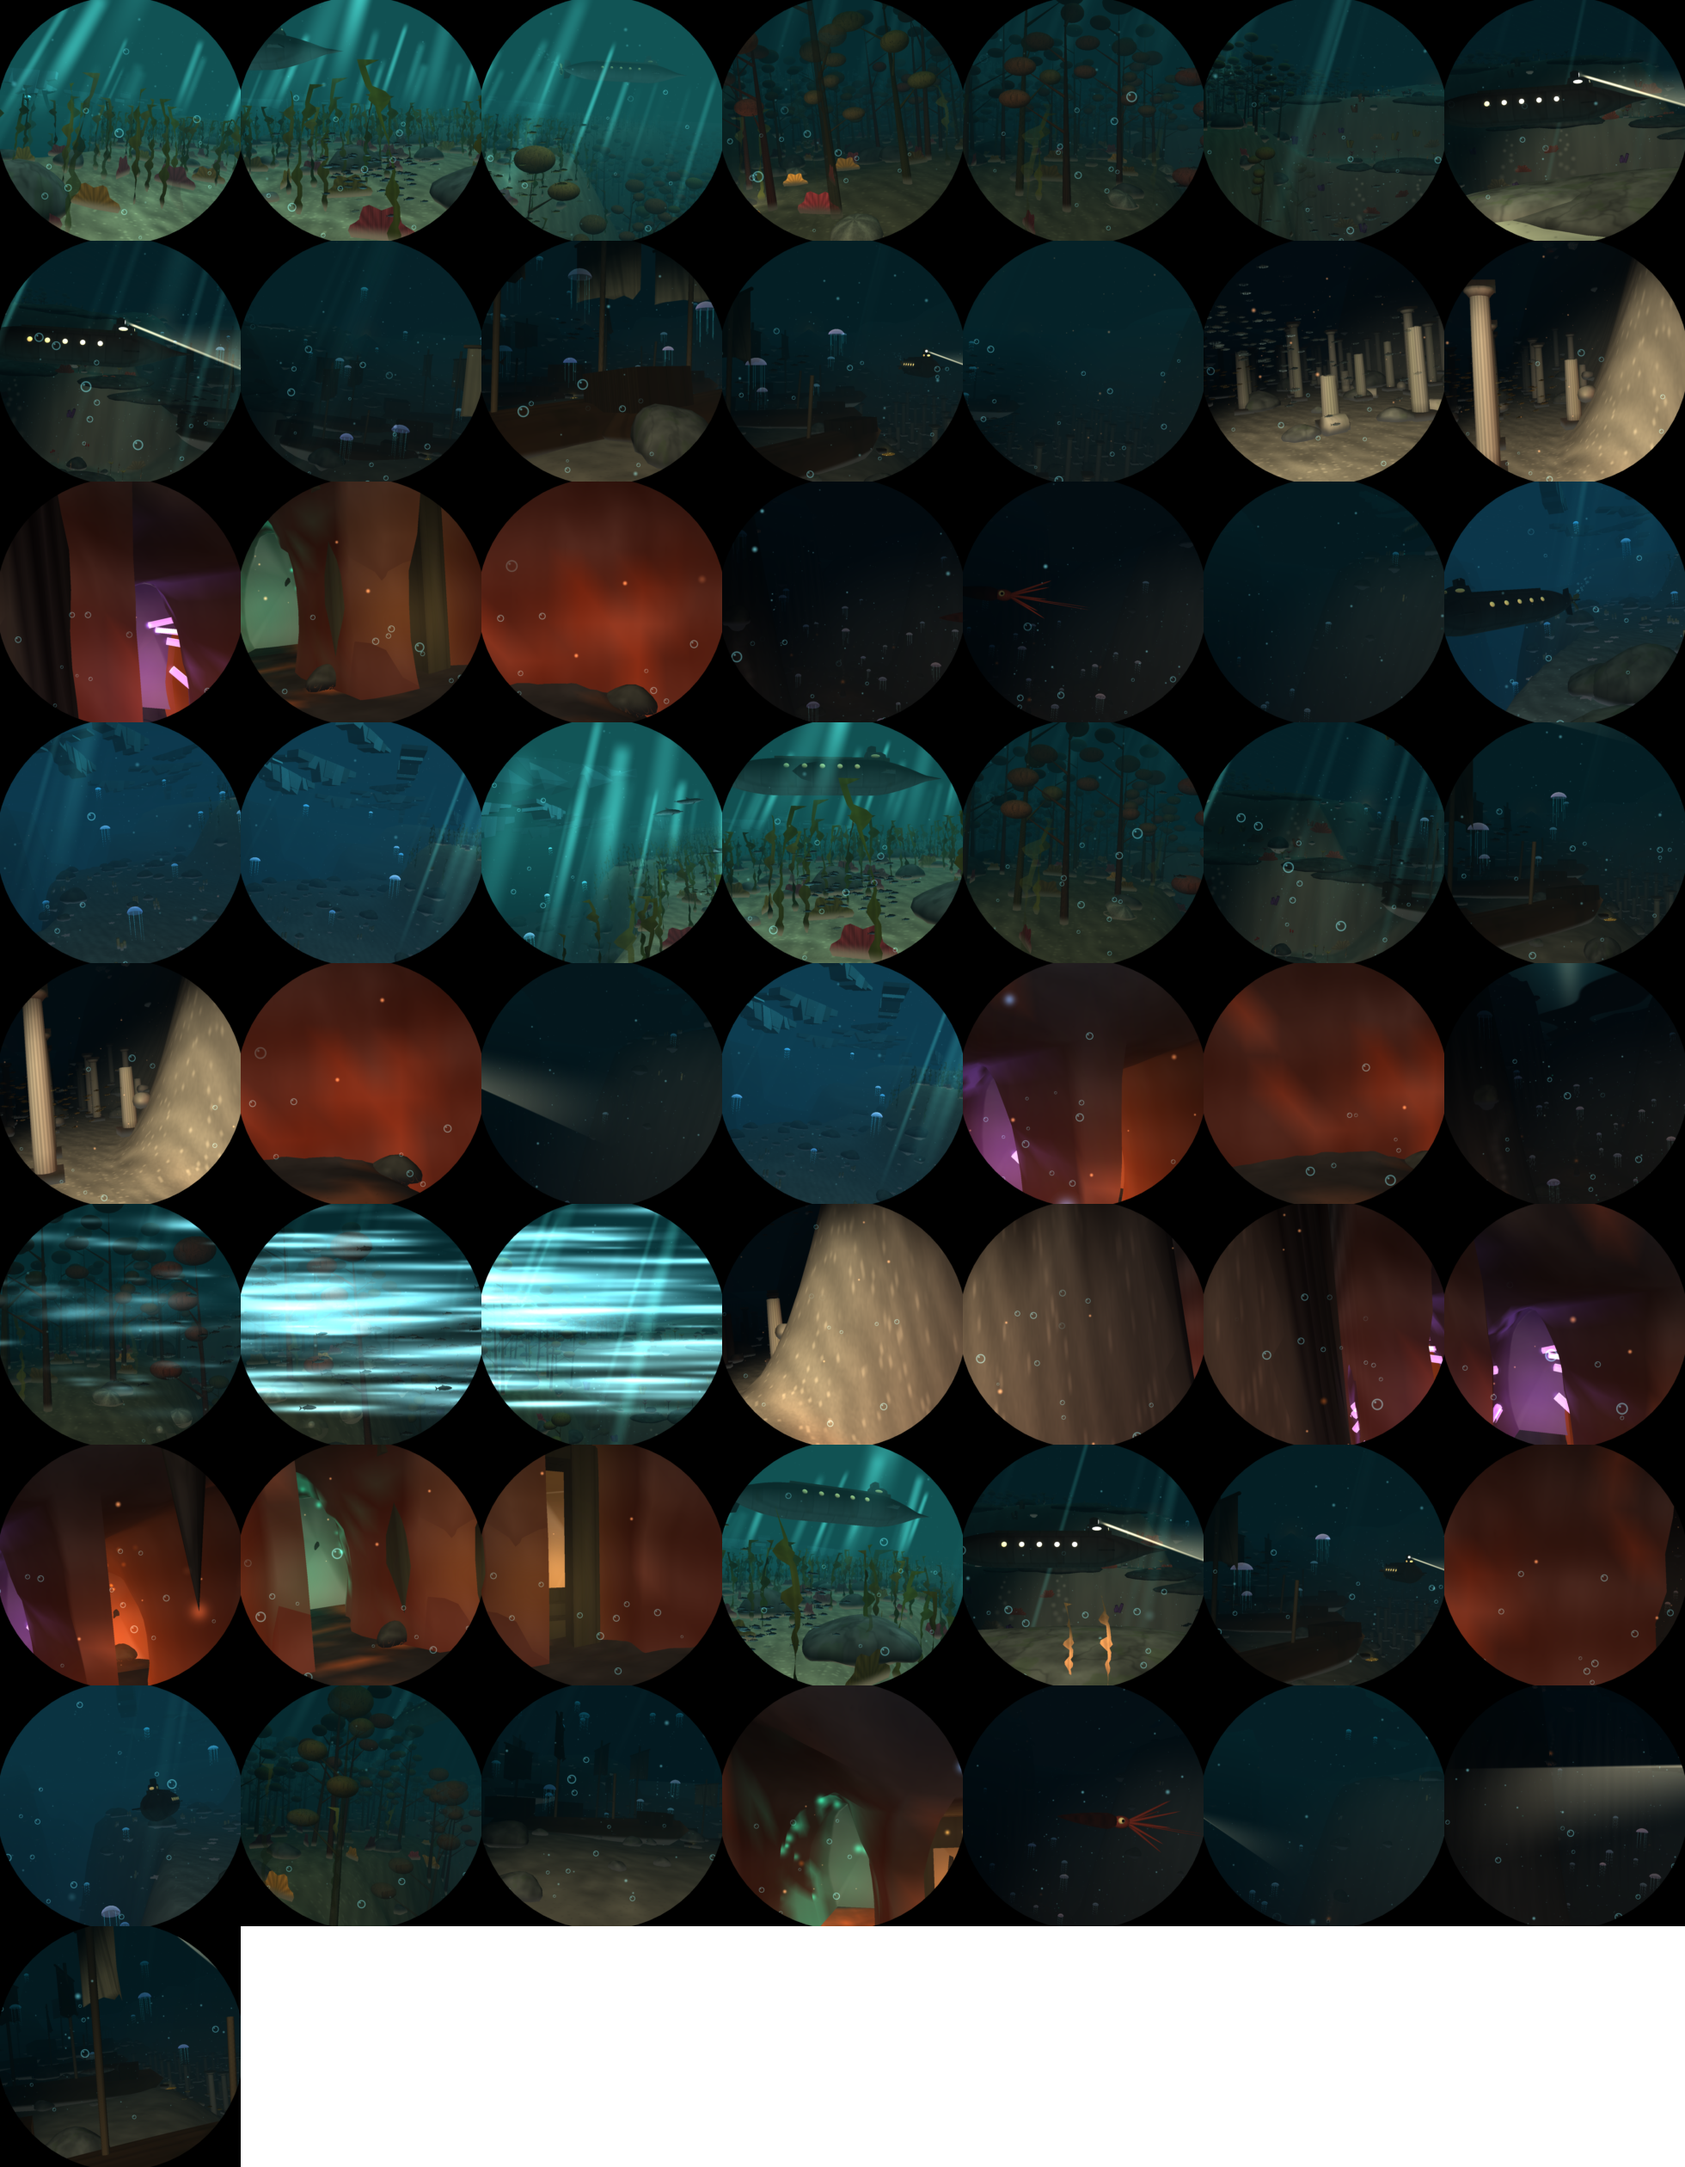
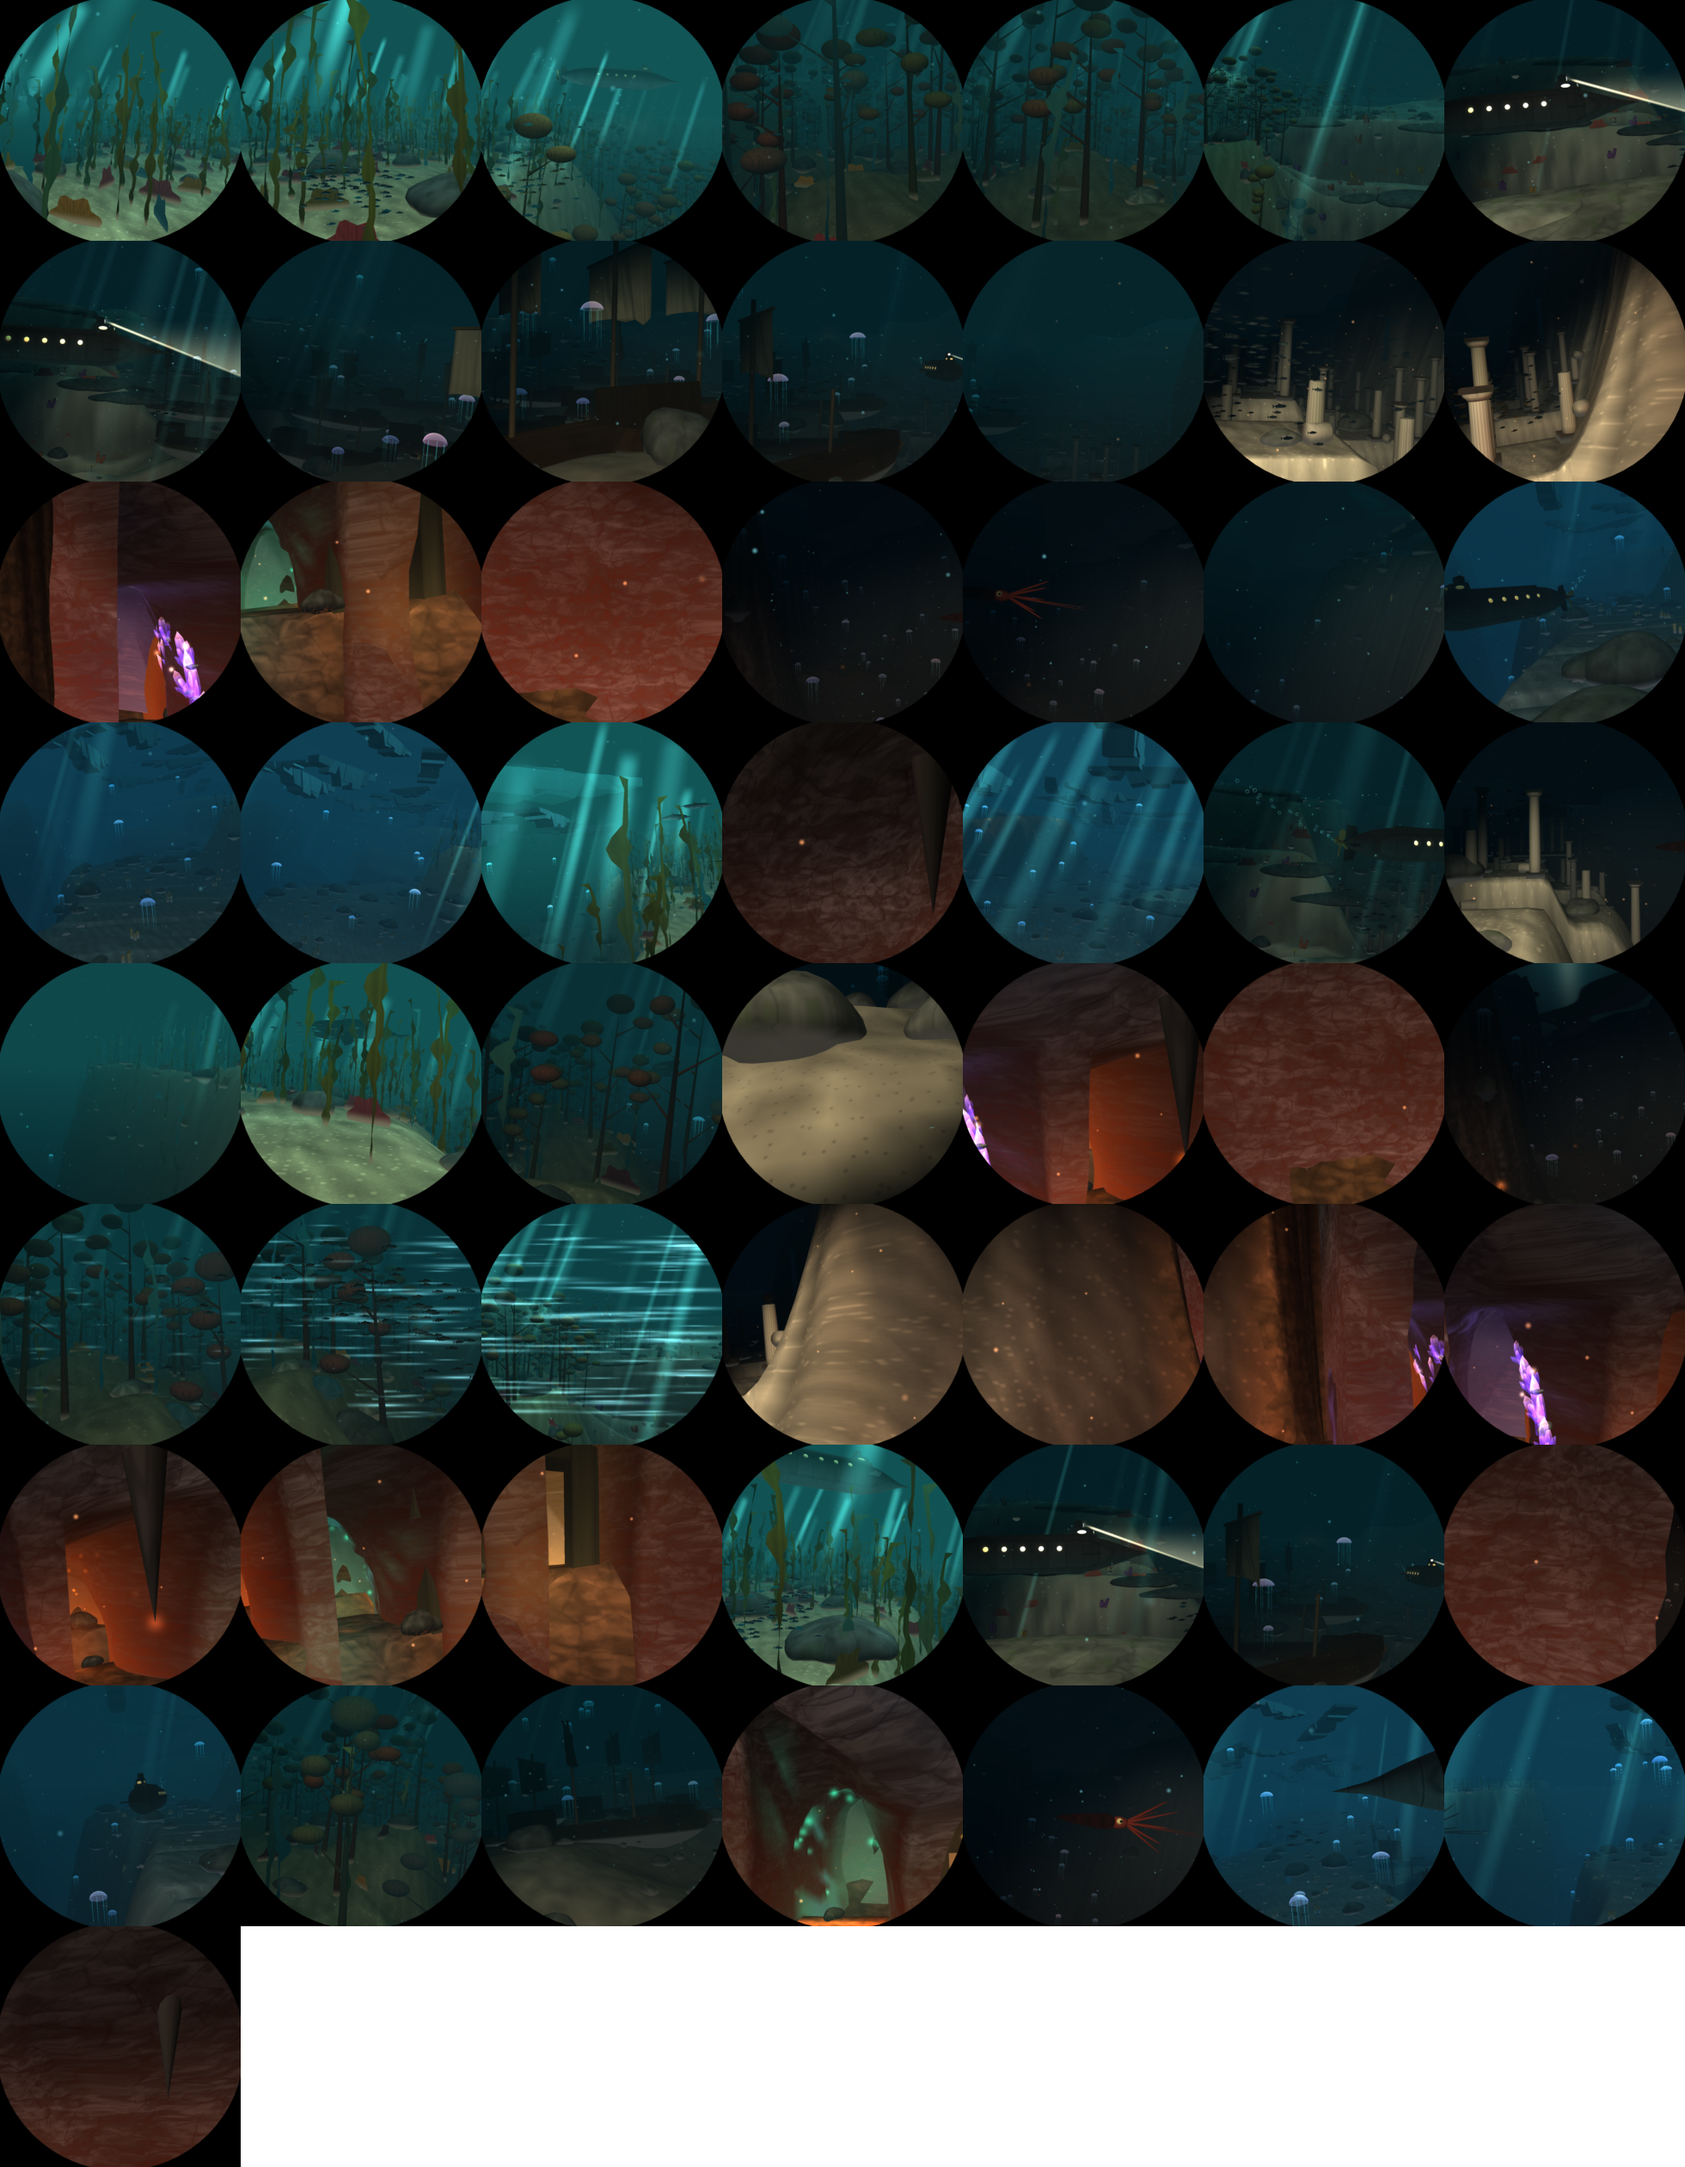
Refresh the reference sheet and cap kelp under the sisters

diff --git a/docs/dive3d-scenes.html b/docs/dive3d-scenes.html
@@ -27,14 +27,14 @@
 <figure><div class=tile style="background-position:-0px -840px"></div><figcaption>21: 7-arctic-early</figcaption></figure>
 <figure><div class=tile style="background-position:-280px -840px"></div><figcaption>22: 7-arctic-middle</figcaption></figure>
 <figure><div class=tile style="background-position:-560px -840px"></div><figcaption>23: 7-arctic-leaving</figcaption></figure>
-<figure><div class=tile style="background-position:-840px -840px"></div><figcaption>24: 0-shallows-other-seabed</figcaption></figure>
-<figure><div class=tile style="background-position:-1120px -840px"></div><figcaption>25: 1-forest-other-seabed</figcaption></figure>
+<figure><div class=tile style="background-position:-840px -840px"></div><figcaption>24: 0-cave-other-seabed</figcaption></figure>
+<figure><div class=tile style="background-position:-1120px -840px"></div><figcaption>25: 1-arctic-other-seabed</figcaption></figure>
 <figure><div class=tile style="background-position:-1400px -840px"></div><figcaption>26: 2-trench-other-seabed</figcaption></figure>
-<figure><div class=tile style="background-position:-1680px -840px"></div><figcaption>27: 3-wrecks-other-seabed</figcaption></figure>
-<figure><div class=tile style="background-position:-0px -1120px"></div><figcaption>28: 4-atlantis-other-seabed</figcaption></figure>
-<figure><div class=tile style="background-position:-280px -1120px"></div><figcaption>29: 5-cave-other-seabed</figcaption></figure>
-<figure><div class=tile style="background-position:-560px -1120px"></div><figcaption>30: 6-abyss-other-seabed</figcaption></figure>
-<figure><div class=tile style="background-position:-840px -1120px"></div><figcaption>31: 7-arctic-other-seabed</figcaption></figure>
+<figure><div class=tile style="background-position:-1680px -840px"></div><figcaption>27: 3-atlantis-other-seabed</figcaption></figure>
+<figure><div class=tile style="background-position:-0px -1120px"></div><figcaption>28: 4-abyss-other-seabed</figcaption></figure>
+<figure><div class=tile style="background-position:-280px -1120px"></div><figcaption>29: 5-shallows-other-seabed</figcaption></figure>
+<figure><div class=tile style="background-position:-560px -1120px"></div><figcaption>30: 6-forest-other-seabed</figcaption></figure>
+<figure><div class=tile style="background-position:-840px -1120px"></div><figcaption>31: 7-wrecks-other-seabed</figcaption></figure>
 <figure><div class=tile style="background-position:-1120px -1120px"></div><figcaption>32: helm-cave-mouth</figcaption></figure>
 <figure><div class=tile style="background-position:-1400px -1120px"></div><figcaption>33: helm-cave-deep</figcaption></figure>
 <figure><div class=tile style="background-position:-1680px -1120px"></div><figcaption>34: helm-cave-far-mouth</figcaption></figure>

diff --git a/src/dive3d/mod.rs b/src/dive3d/mod.rs
@@ -2586,7 +2586,7 @@ mod tests {
             .and_then(|v| v.trim().parse().ok())
             .unwrap_or(0);
         let names = [
-            "shallows", "forest", "trench", "wrecks", "atlantis", "cave", "abyss", "arctic",
+            "shallows", "forest", "wrecks", "atlantis", "cave", "abyss", "arctic", "trench",
         ];
         let offsets: Vec<f64> = std::env::var("DIVE3D_PREVIEW_OFFSETS")
             .ok()
@@ -2597,11 +2597,7 @@ mod tests {
             })
             .unwrap_or_else(|| vec![0.0]);
         for (n, _) in names.iter().enumerate() {
-            let name = Biome::at(
-                (n as f64 + 0.5) * crate::voyage::LEG,
-                seed_of(seed),
-            )
-            .a;
+            let name = Biome::at((n as f64 + 0.5) * crate::voyage::LEG, seed_of(seed)).a;
             let name = names[name];
             for (k, offset) in offsets.iter().enumerate() {
                 let pixels = scene.read_back(&gpu, leg(n as f64) + offset, seed);
@@ -3207,7 +3203,7 @@ mod tests {
         scene.draw(&gpu, 0.0, 0, 0).expect("a frame");
         gpu.device.poll(wgpu::PollType::wait_indefinitely()).ok();
         let names = [
-            "shallows", "forest", "trench", "wrecks", "atlantis", "cave", "abyss", "arctic",
+            "shallows", "forest", "wrecks", "atlantis", "cave", "abyss", "arctic", "trench",
         ];
         let frames = 60;
         let mut total = 0.0;
@@ -3284,7 +3280,7 @@ mod tests {
             .and_then(|v| v.parse().ok())
             .unwrap_or(6usize);
         let names = [
-            "shallows", "forest", "trench", "wrecks", "atlantis", "cave", "abyss", "arctic",
+            "shallows", "forest", "wrecks", "atlantis", "cave", "abyss", "arctic", "trench",
         ];
         let span = crate::voyage::LEG / crate::voyage::SPEED;
         let mut rows = Vec::new();

diff --git a/src/dive3d/world.rs b/src/dive3d/world.rs
@@ -3023,15 +3023,15 @@ fn passages(w: &World, f: &mut Frame) {
                 // and across the mouth so the window sees a long face rather
                 // than an end; a slab of basalt hides its foot.
                 let sprout = |f: &mut Frame,
-                                  k: i32,
-                                  model: Model,
-                                  s: f32,
-                                  a: f32,
-                                  length: f32,
-                                  width: f32,
-                                  up: f32,
-                                  lateral: f32,
-                                  glow: f32| {
+                              k: i32,
+                              model: Model,
+                              s: f32,
+                              a: f32,
+                              length: f32,
+                              width: f32,
+                              up: f32,
+                              lateral: f32,
+                              glow: f32| {
                     let wall = p.wall(s, a);
                     let c = p.centre(s);
                     let inward = norm([c[0] - wall[0], 0.0, c[2] - wall[2]]);
